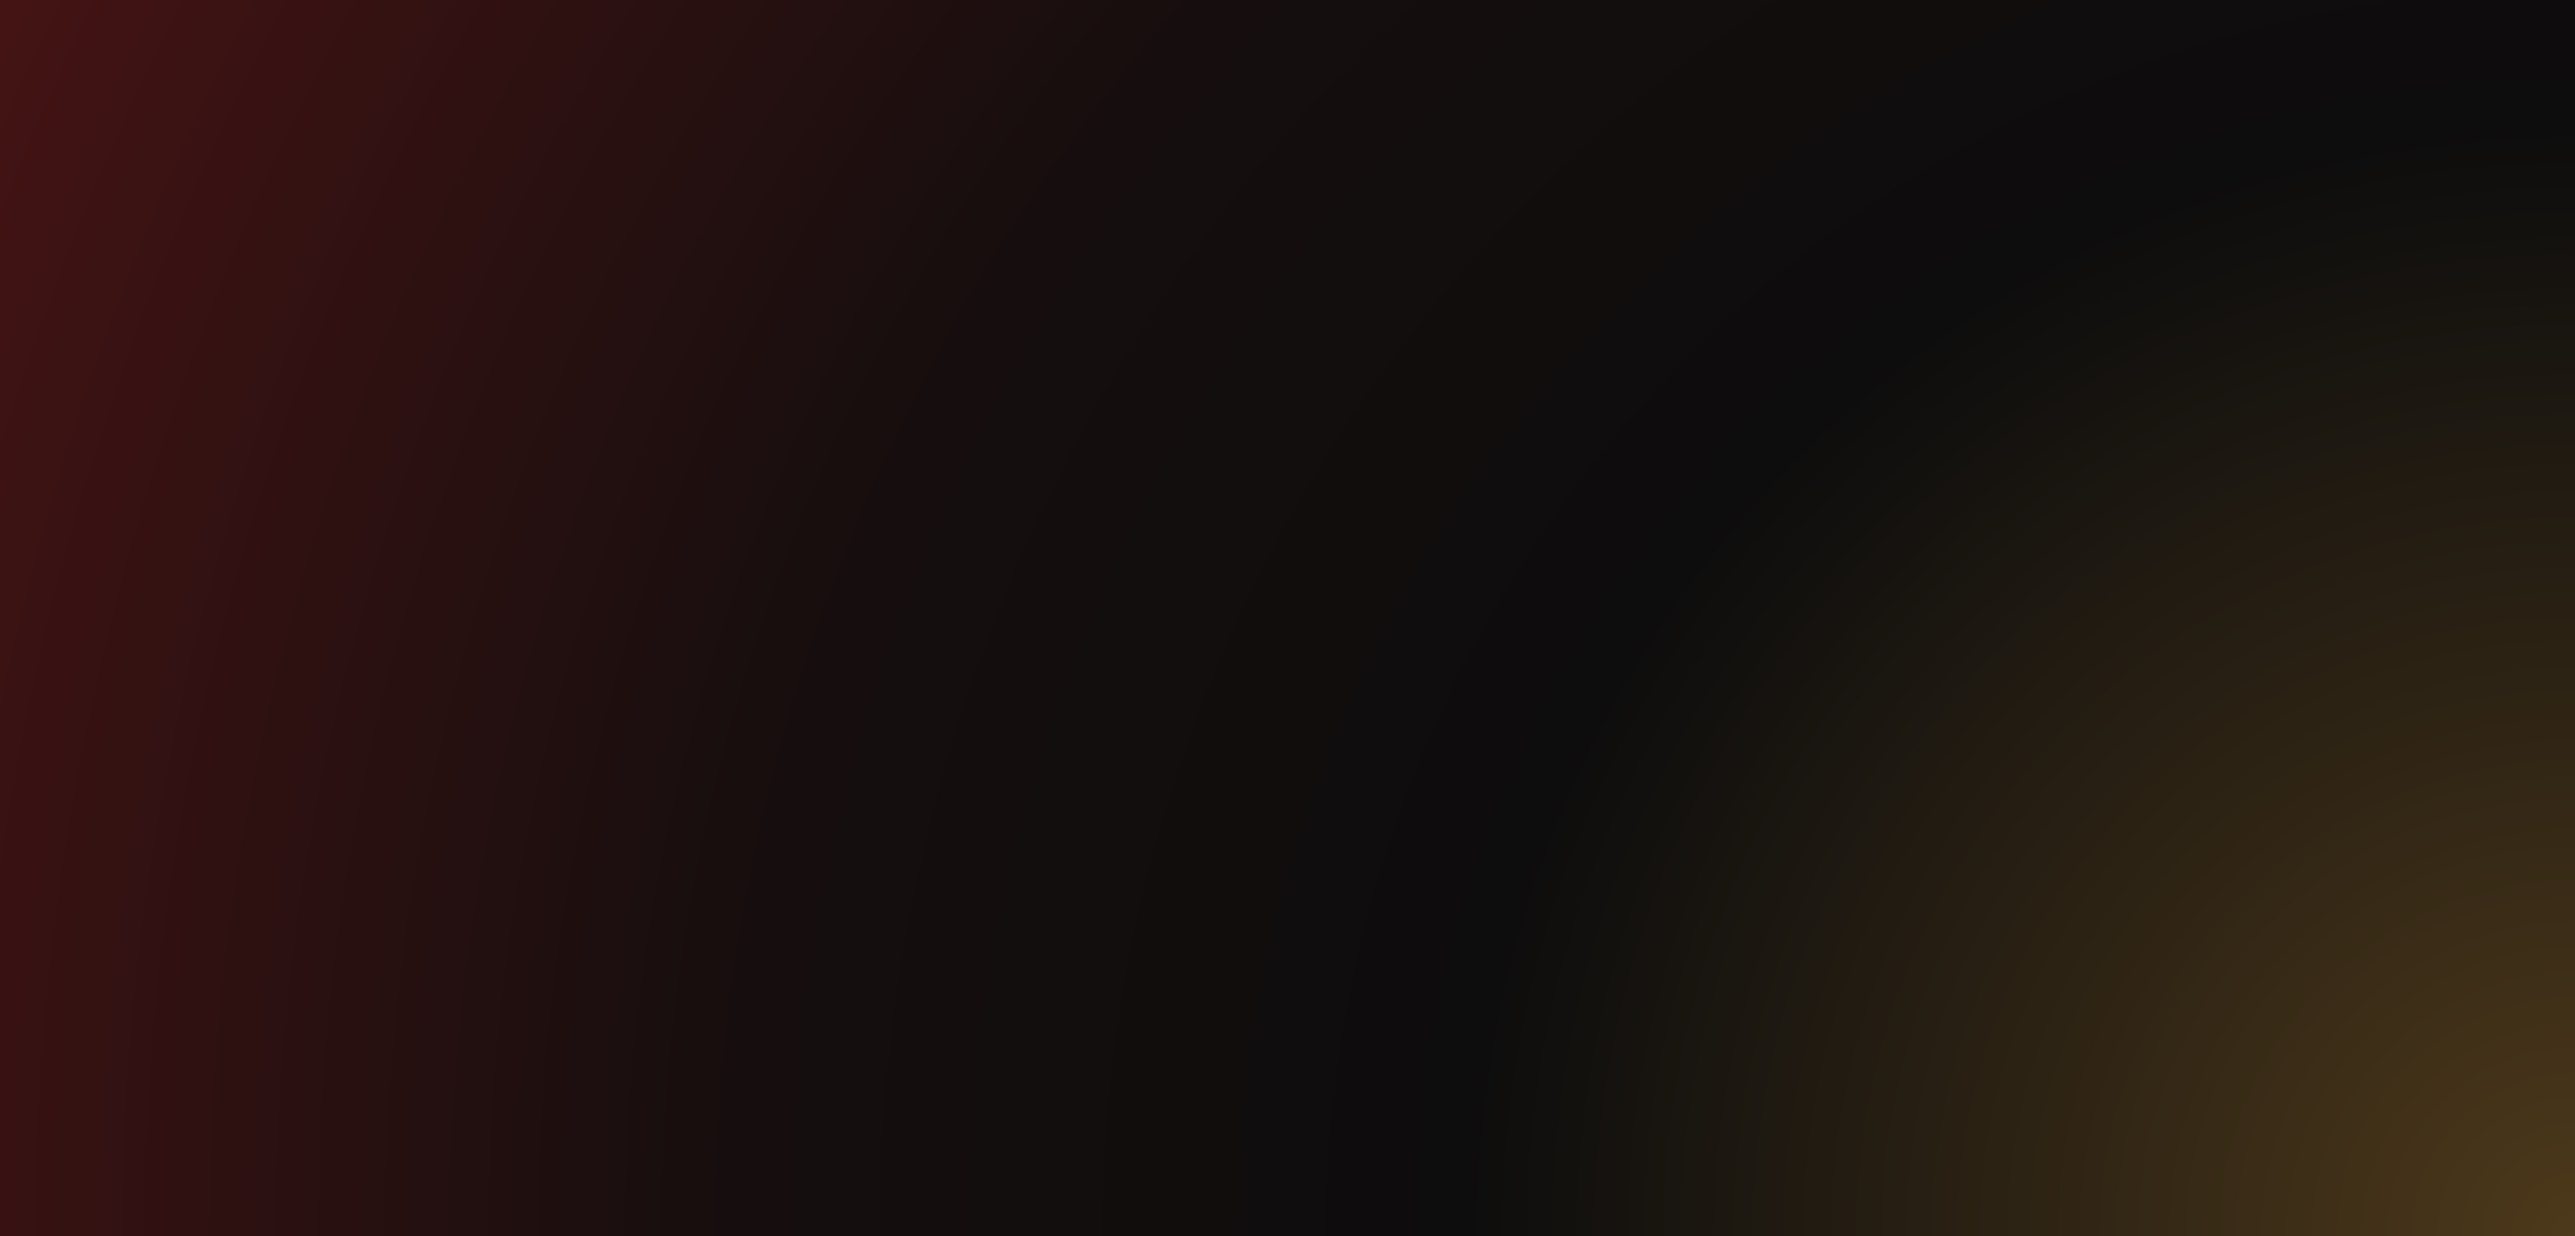
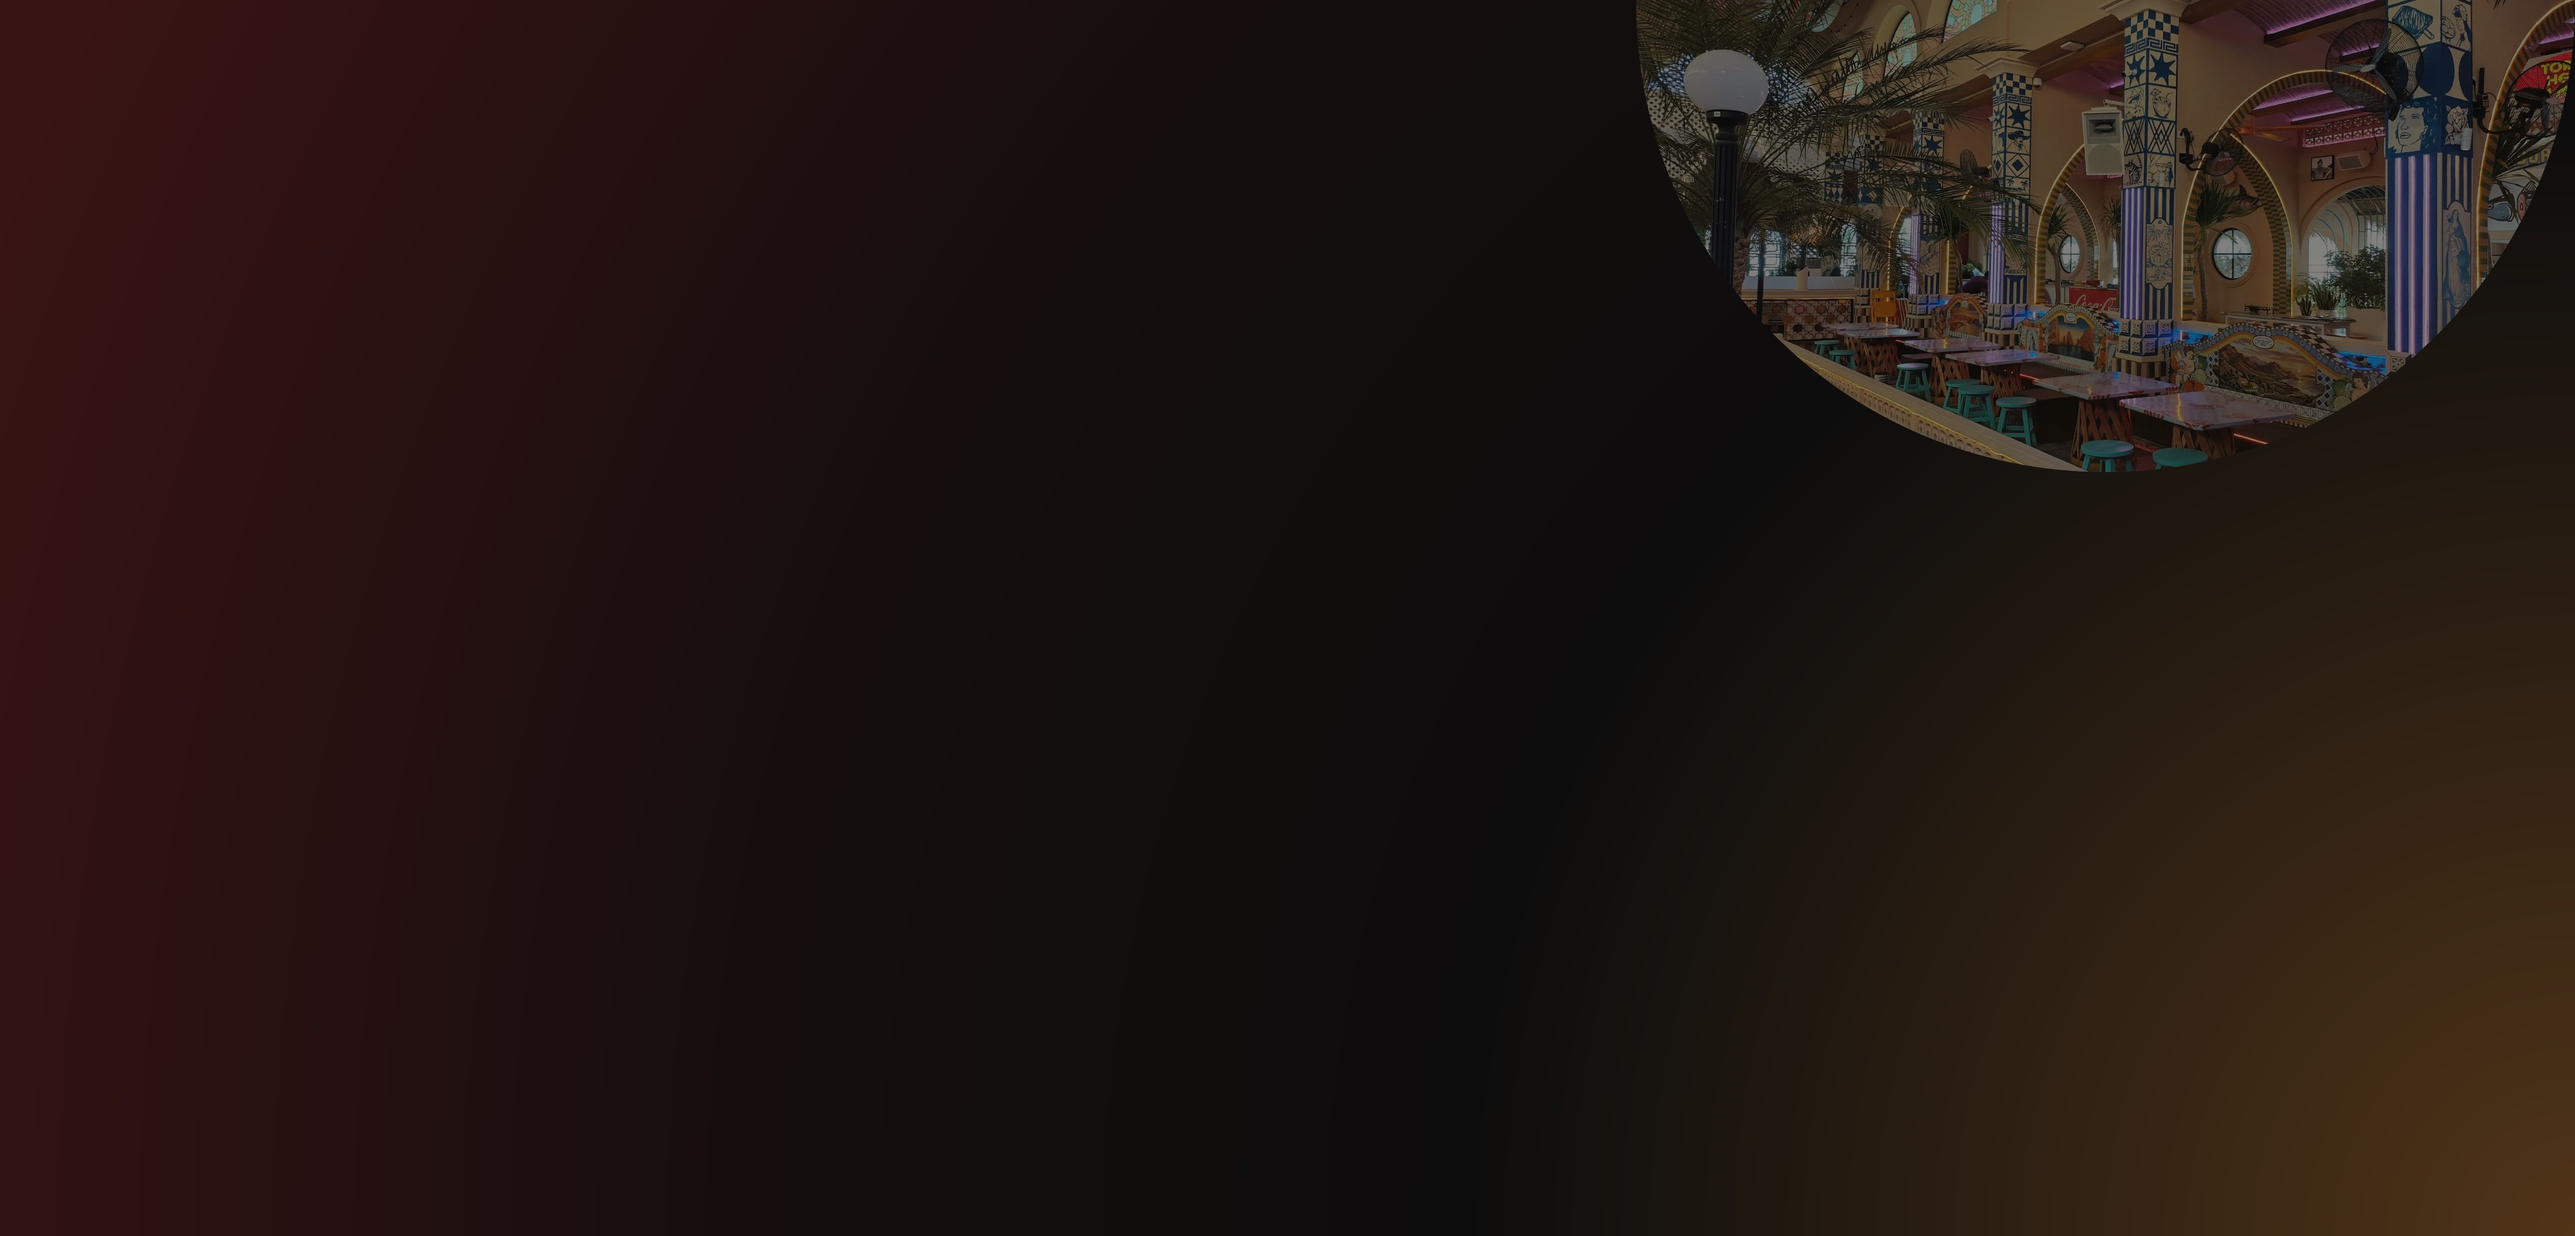
UI
update UI home

Changed region(s): [[0.6229, 0.0, 1.0, 0.4048]]

diff --git a/resources/views/HomePage.blade.php b/resources/views/HomePage.blade.php
@@ -11,7 +11,7 @@
     <title>Document</title>
 </head>
 <body>
-    <header class="relative w-full h-[80vh] lg:w-full lg:h-auto overflow-hidden z-10">
+    <header class="relative w-full h-[80vh] lg:w-full lg:h-auto overflow-hidden z-30">
 
         @include('shared.navbar')
 
@@ -22,14 +22,14 @@
             class="bg-parallax w-full object-cover h-full lg:w-full lg:h-auto">
     </picture>
 
-        <div class="absolute inset-0 z-[1] bg-black/20 "></div>
-
-        <div id="intro-logo" class="absolute inset-0 z-40 lg:-top-50 flex items-center justify-center">
-            <img src="{{ asset('images/Celver Audio.png') }} "alt="Logo" class="w-40 md:w-56">
-        </div>
+        <div class="absolute inset-0 bg-black/20 "></div>
         
-        <div id="intro" class ="absolute inset-0 items-center justify-center flex z-20"> 
-            <h2 class ="relative text-white font-bold top-35 lg:top-10 text-2xl lg:text-4xl text-shadow-[2px_2px_6px_rgba(0,0,0,0.3)] text-center"><?= $tagLine; ?></h2>
+        <div id="intro" class ="absolute inset-0 items-center justify-center flex flex-col -top-75 lg:-top-25 z-20"> 
+            <h2 class ="relative text-white font-bold top-35 lg:top-10 text-2xl lg:text-4xl text-shadow-lg/30 text-center"><?= $tagLine; ?></h2>
+            <br>
+            <h2 class ="relative text-white font-bold top-35 lg:top-10 text-2xl lg:text-4xl text-shadow-lg/30 text-center"><?= $tagLine2; ?></h2>
+            <br>
+            <h2 class ="relative text-white font-bold top-35 lg:top-10 text-2xl lg:text-4xl text-shadow-lg/30 text-center"><?= $tagLine3; ?></h2>
         </div>
        
 
@@ -37,19 +37,60 @@
 
     <main>
         
-         <section class="relative w-full h-[500px] lg:min-h-[750px] overflow-hidden z-20">
-            <img
-                src="{{ asset('images/custom-bgColor.jpg.jpeg') }}"
-                alt="Latar Belakang Gelap"
-                class="absolute inset-0 w-full h-full object-cover z-0">
+    <section class="relative w-full lg:max-w-full h-[1000px] lg:h-[750px] z-20 flex-col lg:flex-row lg:pr-60">
+        <img
+            src="{{ asset('images/custom-bgColor.jpg.jpeg') }}"
+            alt="Latar Belakang Gelap"
+            class="absolute inset-0 w-full h-full object-cover z-0">
 
-            <div class="absolute inset-0 z-10 flex items-center justify-start">
+    <div class="relative z-10 grid grid-cols-1 lg:grid-cols-[2fr_1fr_1fr] lg:gap-12 items-center h-full w-full ">
+        
+        <div class="flex w-full h-full justify-center lg:justify-start items-center overflow-hidden">
             <img
                 src="{{ asset('images/3_image.png') }}"
                 alt="Gambar Depan"
-                class="h-full w-auto object-cover">
+                class="h-full w-auto object-contain">
+        </div>
+
+        <div id='item-parallax'class="absolute inset-0 rounded-4xl lg:left-160 lg:top-20 lg:w-[6vh] lg:h-[36vh] outline-1 outline-yellow-200/50 flex items-center justify-center"></div>
+        <div id='item-parallax'class="absolute inset-0 rounded-4xl lg:left-250 lg:top-30 lg:w-[20vh] lg:h-[13vh] outline-1 outline-yellow-200/50 flex items-center justify-center"></div>
+        <div id='item-parallax'class="absolute inset-0 rounded-4xl lg:left-410 lg:top-130 lg:w-[6vh] lg:h-[6vh] outline-1 outline-yellow-200/50 flex items-center justify-center"></div>
+
+        <div class="w-full">
+            <div class="w-full rounded-2xl overflow-hidden flex flex-col h-90 relative bg-black/50 group/card border border-white/10 p-6 text-white backdrop-blur-sm">
+                <img class="object-cover w-full h-full absolute inset-0 group-hover/card:scale-125 transition-transform duration-300 entered litespeed-loaded"
+                alt="gambar1"
+                src="{{ asset('images/gambar_layanan3.jpeg') }}">
+                
+                <div class="absolute left-0 w-full bottom-0 after:absolute after:inset-0 after:bg-gradient-to-t after:from-black/80 ">
+                    <div class="p-4 md:p-8 flex flex-col gap-1 relative z-10">
+                        <h2 class="font-bold shadow-xl text-3xl text-shadow-lg/40 mb-2">Installation</h2>
+                        <p class="text-xs text-shadow-lg/30 mb-2">Sound system installation for local-level events. Personalized Tailored sound system configuration according to specialized experience of clubs/cafes/home system/etc.</p>
+                    </div>
+                </div>
             </div>
-        </section>
+        </div>
+
+        <div class="w-full">
+            <div class="w-full rounded-2xl overflow-hidden flex flex-col h-90 relative bg-black/50 group/card border border-white/10 p-6 text-white backdrop-blur-sm">
+                <img class="object-cover w-full h-full absolute inset-0 group-hover/card:scale-125 transition-transform duration-300 entered litespeed-loaded"
+                alt="gambar1"
+                src="{{ asset('images/gambar_layanan2.jpeg') }}">
+                
+                <div class="absolute left-0 w-full bottom-0 after:absolute after:inset-0 after:bg-gradient-to-t after:from-black/70 ">
+                    <div class="p-4 md:p-8 flex flex-col gap-1 relative z-10">
+                        <h2 class="font-bold shadow-xl text-3xl text-shadow-lg/40 mb-2">Calibration & Tuning</h2>
+                        <p class="text-xs text-shadow-lg/30 mb-2">Checking the sound system to ensure high quality sounds produce. Configures simple to complex audio software, architecting acoustic layout, procure best quality/value audio equipment</p>
+                    </div>
+                </div>
+            </div>
+        </div>
+
+        
+
+    </div>
+
+    </section>
        
         <section>
             <!-- Layanan atau produk -->
@@ -57,16 +98,110 @@
         </section>
     </main>
 
-    <footer>
-        <!-- Kontak dan copyright -->
+     <footer class="relative w-full text-neutral-300 pt-16 pb-8 font-sans overflow-hidden border-t border-amber-900/30">
+    <!-- Background Image dengan Overlay Gelap agar Gradasi Menyambung -->
+    <div class="absolute inset-0 z-0 pointer-events-none">
+        <img src="{{ asset('images/custom-bgColor.jpg.jpeg') }}" alt="Footer Background" class="w-full h-full object-cover">
+        <div class="absolute inset-0 bg-neutral-950/80 backdrop-blur-sm"></div>
+    </div>
 
+    <div class="relative z-10 container mx-auto px-6 lg:px-12 max-w-7xl">
+        
+        <!-- Bagian Atas: 4 Kolom Navigasi & Newsletter -->
+        <div class="grid grid-cols-1 md:grid-cols-2 lg:grid-cols-4 gap-12 mb-16 border-t border-amber-500/10 pt-10">
+            
+            <!-- Kolom 1: Products -->
+            <div>
+                <h3 class="text-amber-400 text-lg font-medium mb-6">Products</h3>
+                <ul class="space-y-3 text-sm tracking-wide text-neutral-400">
+                    <li><a href="#" class="hover:text-amber-300 transition-colors">Celver Platform</a></li>
+                    <li><a href="#" class="hover:text-amber-300 transition-colors">Audio Engine</a></li>
+                    <li><a href="#" class="hover:text-amber-300 transition-colors">Sound Library</a></li>
+                    <li><a href="#" class="hover:text-amber-300 transition-colors">Integrations</a></li>
+                </ul>
+            </div>
+
+            <!-- Kolom 2: Resources -->
+            <div>
+                <h3 class="text-amber-400 text-lg font-medium mb-6">Resources</h3>
+                <ul class="space-y-3 text-sm tracking-wide text-neutral-400">
+                    <li><a href="#" class="hover:text-amber-300 transition-colors">Blog</a></li>
+                    <li><a href="#" class="hover:text-amber-300 transition-colors">Guides</a></li>
+                    <li><a href="#" class="hover:text-amber-300 transition-colors">Documentation</a></li>
+                    <li><a href="#" class="hover:text-amber-300 transition-colors">Community</a></li>
+                </ul>
+            </div>
+
+            <!-- Kolom 3: Company -->
+            <div>
+                <h3 class="text-amber-400 text-lg font-medium mb-6">Company</h3>
+                <ul class="space-y-3 text-sm tracking-wide text-neutral-400">
+                    <li><a href="/about" class="hover:text-amber-300 transition-colors">About Us</a></li>
+                    <li><a href="/project" class="hover:text-amber-300 transition-colors">Our Projects</a></li>
+                    <li><a href="#" class="hover:text-amber-300 transition-colors">Careers</a></li>
+                    <li><a href="#" class="hover:text-amber-300 transition-colors">Contact</a></li>
+                </ul>
+            </div>
+
+            <!-- Kolom 4: Newsletter -->
+            <div>
+                <h3 class="text-amber-400 text-lg font-medium mb-6">Sign up for our newsletter to stay up to date</h3>
+                <form class="flex flex-col gap-4">
+                    <input type="email" placeholder="Your email" class="w-full bg-neutral-900/60 border border-neutral-800 rounded-md px-4 py-2.5 text-white placeholder-neutral-500 focus:outline-none focus:border-amber-400 focus:ring-1 focus:ring-amber-400 transition">
+                    <div class="flex justify-end">
+                        <button type="button" class="bg-amber-400 text-neutral-950 font-semibold px-6 py-2.5 rounded-md hover:bg-amber-300 transition shadow-lg shadow-amber-500/10">Subscribe</button>
+                    </div>
+                </form>
+                
+                <!-- Sosmed -->
+                <div class="flex justify-end gap-4 mt-6">
+                    <a href="#" class="text-neutral-500 hover:text-amber-300 transition">IN</a>
+                    <a href="#" class="text-neutral-500 hover:text-amber-300 transition">X</a>
+                    <a href="#" class="text-neutral-500 hover:text-amber-300 transition">YT</a>
+                </div>
+            </div>
+        </div>
+
+        <!-- Bagian Tengah: Teks Outline Raksasa bersinar Emas Tipis -->
+        <div class="flex justify-center items-center mb-10 overflow-hidden pointer-events-none select-none">
+            <h1 class="text-[11vw] font-extrabold leading-none tracking-tighter" 
+                style="-webkit-text-stroke: 1px rgba(251, 191, 36, 0.25); color: transparent;">
+                CELVER AUDIO
+            </h1>
+        </div>
+
+        <!-- Bagian Bawah: Copyright & Status -->
+        <div class="flex flex-col md:flex-row justify-between items-center text-xs text-neutral-500 border-t border-neutral-800/80 pt-6">
+            <div class="flex items-center gap-2 mb-4 md:mb-0">
+                <div class="w-2 h-2 rounded-full bg-amber-500 animate-pulse"></div>
+                <span>All systems operational</span>
+            </div>
+            
+            <div class="flex gap-6">
+                <a href="#" class="hover:text-neutral-300 transition">Privacy policy</a>
+                <a href="#" class="hover:text-neutral-300 transition">Terms of service</a>
+            </div>
+        </div>
+
+    </div>
     </footer>
 </body>
 <script>
     gsap.registerPlugin(ScrollTrigger);
 
       gsap.to(".bg-parallax", {
-        y: "20%", // Menggeser div background sebesar 20% dari tingginya seiring scroll
+        y: "15%", // Menggeser div background sebesar 20% dari tingginya seiring scroll
+        ease: "none",
+        scrollTrigger: {
+            trigger: ".bg-parallax",
+            start: "top",
+            end: "bottom top",
+            scrub: 1 // Nilai 1 membuat efeknya terasa 'membal' halus (smooth catch-up)
+        }
+    });
+
+    gsap.to("#item-parallax", {
+        y: "55%", // Menggeser div background sebesar 20% dari tingginya seiring scroll
         ease: "none",
         scrollTrigger: {
             trigger: ".bg-parallax",

diff --git a/resources/views/shared/navbar.blade.php b/resources/views/shared/navbar.blade.php
@@ -3,16 +3,20 @@
                 via-black/60 to-transparent">
     </div>
 
-<nav class="fixed top-0 left-0 z-50 w-full
-            bg-linear-to-b from-black via-black/60 to-transparent
-            px-6 py-5 text-white">
-            <div class="mx-auto flex max-w-7xl items-center justify-between">
-                <a href="/" class="text-xl font-bold">CELVER AUDIO</a>
+<nav class="fixed top-0 z-60 w-full bg-linear-to-b from-black via-black/60 to-transparent py-5 text-white">
+        <div class="mx-auto grid max-w-7xl grid-cols-3 items-center px-4">
+            <div class="flex justify-start">
+        </div>
 
-                <div class="flex gap-6 text-xs lg:text-base">
-                    <a href="/">Home</a>
-                    <a href="/about">About</a>
-                    <a href="/contact">Contact</a>
+            <a href="/" class="relative flex items-center text-base font-bold lg:text-3xl">
+                <div class="flex items-center justify-center z-40 w-full">
+                    <img src="{{ asset('images/Celver-Audio.png') }}" alt="Celver Audio" class="w-35 lg:w-50 ">
                 </div>
-            </div>
+            </a>
+
+        <div class="flex justify-end gap-6 text-xs lg:text-base">
+            <a href="/about">About</a>
+            <a href="/contact">Contact</a>
+        </div>
+    </div>
         </nav>

diff --git a/app/Http/Controllers/HomepageController.php b/app/Http/Controllers/HomepageController.php
@@ -9,7 +9,9 @@ class HomepageController extends Controller
 {
     public function view(){
         return view('HomePage',[
-        "tagLine" => "Precision Installation. Performance. For every moments."
+        'tagLine' => "Precision Installation",
+        'tagLine2' => "Performance",
+        'tagLine3' => "For every moments"
         ]);
     }
 
